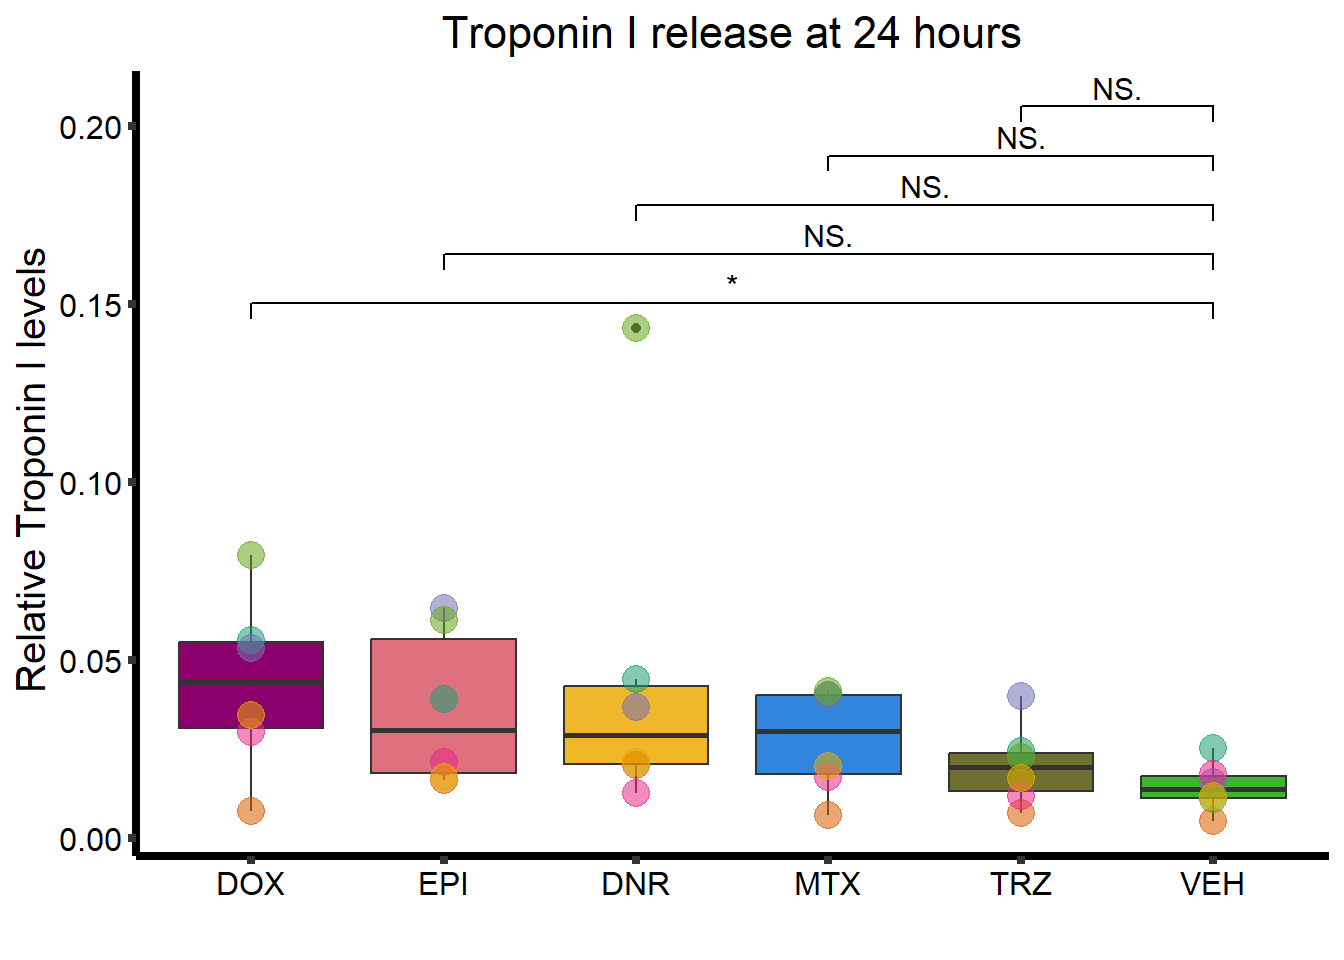
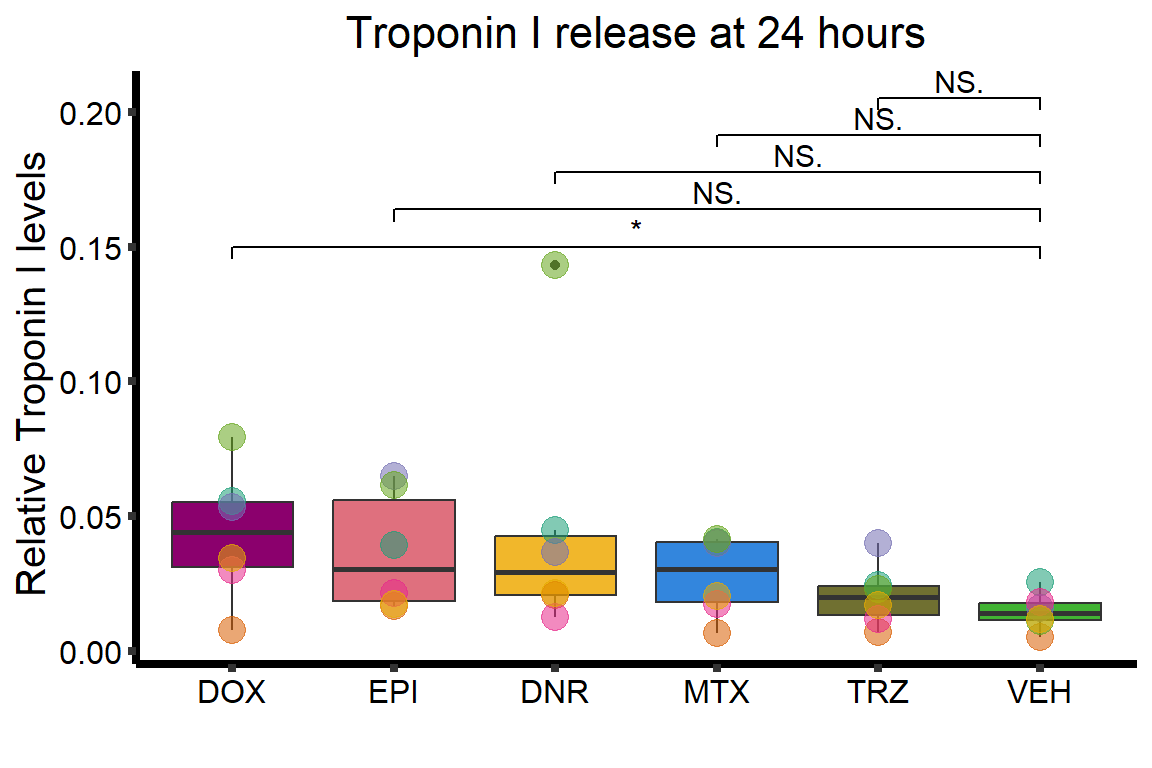
Build site.

diff --git a/docs/Figure2.html b/docs/Figure2.html
@@ -11,7 +11,7 @@
 
 <meta name="author" content="ERM" />
 
-<meta name="date" content="2023-07-06" />
+<meta name="date" content="2023-07-07" />
 
 <title>Figure2</title>
 
@@ -361,7 +361,7 @@ div.tocify {
 
 <h1 class="title toc-ignore">Figure2</h1>
 <h4 class="author">ERM</h4>
-<h4 class="date">2023-07-06</h4>
+<h4 class="date">2023-07-07</h4>
 
 </div>
 
@@ -390,7 +390,7 @@ class="glyphicon glyphicon-ok text-success" aria-hidden="true"></span>
 <div class="tab-content">
 <div id="summary" class="tab-pane fade in active">
 <p>
-<strong>Last updated:</strong> 2023-07-06
+<strong>Last updated:</strong> 2023-07-07
 </p>
 <p>
 <strong>Checks:</strong> <span
@@ -521,15 +521,15 @@ project makes it easier to run your code on other machines.</p>
 <div class="panel panel-default">
 <div class="panel-heading">
 <p class="panel-title">
-<a data-toggle="collapse" data-parent="#workflowr-checks" href="#strongRepositoryversionstrongahrefhttpsgithubcomreneeisnowhereCardiotoxicitytreeb94a1e03c71cb37e5ccf788c8ba1204f61031e2ctargetblankb94a1e0a">
+<a data-toggle="collapse" data-parent="#workflowr-checks" href="#strongRepositoryversionstrongahrefhttpsgithubcomreneeisnowhereCardiotoxicitytreee5cbe6d0409568d439752ee0d739fa9147dddbaatargetblanke5cbe6da">
 <span class="glyphicon glyphicon-ok text-success"
 aria-hidden="true"></span> <strong>Repository version:</strong>
-<a href="https://github.com/reneeisnowhere/Cardiotoxicity/tree/b94a1e03c71cb37e5ccf788c8ba1204f61031e2c" target="_blank">b94a1e0</a>
+<a href="https://github.com/reneeisnowhere/Cardiotoxicity/tree/e5cbe6d0409568d439752ee0d739fa9147dddbaa" target="_blank">e5cbe6d</a>
 </a>
 </p>
 </div>
 <div
[2 lines of base64/hex data omitted]
 class="panel-collapse collapse">
 <div class="panel-body">
 <p>
@@ -539,7 +539,7 @@ reproducibility.
 </p>
 <p>
 The results in this page were generated with repository version
-<a href="https://github.com/reneeisnowhere/Cardiotoxicity/tree/b94a1e03c71cb37e5ccf788c8ba1204f61031e2c" target="_blank">b94a1e0</a>.
+<a href="https://github.com/reneeisnowhere/Cardiotoxicity/tree/e5cbe6d0409568d439752ee0d739fa9147dddbaa" target="_blank">e5cbe6d</a>.
 See the <em>Past versions</em> tab to see a history of the changes made
 to the R Markdown and HTML files.
 </p>
@@ -611,6 +611,8 @@ Ignored files:
     Ignored:    data/avgLD50.RDS
     Ignored:    data/avg_LD50.RDS
     Ignored:    data/backGL.txt
+    Ignored:    data/calcium_data.RDS
+    Ignored:    data/clamp_summary.RDS
     Ignored:    data/cormotif_3hk1-8.RDS
     Ignored:    data/cormotif_initalK5.RDS
     Ignored:    data/cormotif_initialK5.RDS
@@ -714,6 +716,7 @@ Untracked files:
     Untracked:  output/DNRvenn.RDS
     Untracked:  output/DOXvenn.RDS
     Untracked:  output/EPIvenn.RDS
+    Untracked:  output/Figures/
     Untracked:  output/MTXvenn.RDS
     Untracked:  output/Volcanoplot_10
     Untracked:  output/Volcanoplot_10.RDS
@@ -733,6 +736,10 @@ Unstaged changes:
     Modified:   Cardiotoxicity.Rproj
     Modified:   analysis/DRC_analysis.Rmd
     Modified:   analysis/Figure1.Rmd
+    Modified:   analysis/Figure3.Rmd
+    Modified:   analysis/Figure7.Rmd
+    Modified:   analysis/Figure8.Rmd
+    Modified:   analysis/Figure9.Rmd
     Modified:   analysis/GOI_plots.Rmd
     Modified:   analysis/Supplementary_figures.Rmd
     Modified:   analysis/other_analysis.Rmd
@@ -794,6 +801,40 @@ Message
 </tr>
 </thead>
 <tbody>
+<tr>
+<td>
+Rmd
+</td>
+<td>
+<a href="https://github.com/reneeisnowhere/Cardiotoxicity/blob/e5cbe6d0409568d439752ee0d739fa9147dddbaa/analysis/Figure2.Rmd" target="_blank">e5cbe6d</a>
+</td>
+<td>
+reneeisnowhere
+</td>
+<td>
+2023-07-07
+</td>
+<td>
+update exports
+</td>
+</tr>
+<tr>
+<td>
+html
+</td>
+<td>
+<a href="https://rawcdn.githack.com/reneeisnowhere/Cardiotoxicity/32ba3b45fdaf4ca70171d5d57369a552aa26a9c1/docs/Figure2.html" target="_blank">32ba3b4</a>
+</td>
+<td>
+reneeisnowhere
+</td>
+<td>
+2023-07-06
+</td>
+<td>
+Build site.
+</td>
+</tr>
 <tr>
 <td>
 Rmd
@@ -953,8 +994,11 @@ RNAnormlist %&gt;%
         axis.line = element_line(linewidth = 1.5),
         axis.text = element_text(size = 12, color = &quot;black&quot;, angle = 0),
         strip.text.x = element_text(size = 15, color = &quot;black&quot;, face = &quot;bold&quot;))</code></pre>
-<p><img src="figure/Figure2.Rmd/LDH,data%20load-1.png" width="672" style="display: block; margin: auto;" />
-## C. Troponin I release</p>
+<p><img src="figure/Figure2.Rmd/LDH,data%20load-1.png" width="576" style="display: block; margin: auto;" /></p>
+<pre class="r"><code>ggsave(&quot;output/Figures/LDH24h.eps&quot;,width = 4, height =6, units = &quot;in&quot;)</code></pre>
+</div>
+<div id="c.-troponin-i-release" class="section level2">
+<h2>C. Troponin I release</h2>
 <pre class="r"><code>RNAnormlist %&gt;% 
   mutate(Drug = factor(Drug, levels = c(  &quot;DOX&quot;,
                                           &quot;EPI&quot;,
@@ -990,7 +1034,8 @@ RNAnormlist %&gt;%
         axis.line = element_line(linewidth = 1.5),
         axis.text = element_text(size = 12, color = &quot;black&quot;, angle = 0),
         strip.text.x = element_text(size = 15, color = &quot;black&quot;, face = &quot;bold&quot;))</code></pre>
-<p><img src="figure/Figure2.Rmd/troponin_24-1.png" width="672" style="display: block; margin: auto;" /></p>
+<p><img src="figure/Figure2.Rmd/troponin_24-1.png" width="576" style="display: block; margin: auto;" /></p>
+<pre class="r"><code>ggsave(&quot;output/Figures/LDH24h.eps&quot;,width = 4, height =6, units = &quot;in&quot;)</code></pre>
 <br>
 <p>
 <button type="button" class="btn btn-default btn-workflowr btn-workflowr-sessioninfo" data-toggle="collapse" data-target="#workflowr-sessioninfo" style="display: block;">
@@ -1027,24 +1072,24 @@ other attached packages:
 [22] workflowr_1.7.0    
 
 loaded via a namespace (and not attached):
- [1] httr_1.4.6       sass_0.4.6       jsonlite_1.8.5   splines_4.2.2   
- [5] gtools_3.9.4     bslib_0.5.0      getPass_0.2-2    highr_0.10      
- [9] yaml_2.3.7       pillar_1.9.0     backports_1.4.1  lattice_0.21-8  
-[13] glue_1.6.2       digest_0.6.31    promises_1.2.0.1 colorspace_2.1-0
-[17] sandwich_3.0-2   htmltools_0.5.5  httpuv_1.6.11    Matrix_1.5-4.1  
-[21] pkgconfig_2.0.3  mvtnorm_1.2-2    scales_1.2.1     processx_3.8.1  
-[25] whisker_0.4.1    later_1.3.1      tzdb_0.4.0       timechange_0.2.0
-[29] git2r_0.32.0     farver_2.1.1     generics_0.1.3   TH.data_1.1-2   
-[33] cachem_1.0.8     withr_2.5.0      cli_3.6.1        survival_3.5-5  
-[37] magrittr_2.0.3   evaluate_0.21    ps_1.7.5         fs_1.6.2        
-[41] fansi_1.0.4      tools_4.2.2      hms_1.1.3        lifecycle_1.0.3 
-[45] multcomp_1.4-24  munsell_0.5.0    plotrix_3.8-2    callr_3.7.3     
-[49] compiler_4.2.2   jquerylib_0.1.4  rlang_1.1.1      grid_4.2.2      
-[53] rstudioapi_0.14  labeling_0.4.2   rmarkdown_2.22   gtable_0.3.3    
-[57] codetools_0.2-19 abind_1.4-5      R6_2.5.1         zoo_1.8-12      
-[61] knitr_1.43       fastmap_1.1.1    utf8_1.2.3       rprojroot_2.0.3 
-[65] stringi_1.7.12   Rcpp_1.0.10      vctrs_0.6.3      tidyselect_1.2.0
-[69] xfun_0.39       </code></pre>
+ [1] httr_1.4.6        sass_0.4.6        jsonlite_1.8.5    splines_4.2.2    
+ [5] gtools_3.9.4      bslib_0.5.0       getPass_0.2-2     highr_0.10       
+ [9] yaml_2.3.7        pillar_1.9.0      backports_1.4.1   lattice_0.21-8   
+[13] glue_1.6.2        digest_0.6.31     promises_1.2.0.1  colorspace_2.1-0 
+[17] sandwich_3.0-2    htmltools_0.5.5   httpuv_1.6.11     Matrix_1.5-4.1   
+[21] pkgconfig_2.0.3   mvtnorm_1.2-2     scales_1.2.1      processx_3.8.1   
+[25] whisker_0.4.1     later_1.3.1       tzdb_0.4.0        timechange_0.2.0 
+[29] git2r_0.32.0      farver_2.1.1      generics_0.1.3    TH.data_1.1-2    
+[33] cachem_1.0.8      withr_2.5.0       cli_3.6.1         survival_3.5-5   
+[37] magrittr_2.0.3    evaluate_0.21     ps_1.7.5          fs_1.6.2         
+[41] fansi_1.0.4       textshaping_0.3.6 tools_4.2.2       hms_1.1.3        
+[45] lifecycle_1.0.3   multcomp_1.4-24   munsell_0.5.0     plotrix_3.8-2    
+[49] callr_3.7.3       compiler_4.2.2    jquerylib_0.1.4   systemfonts_1.0.4
+[53] rlang_1.1.1       grid_4.2.2        rstudioapi_0.14   labeling_0.4.2   
+[57] rmarkdown_2.22    gtable_0.3.3      codetools_0.2-19  abind_1.4-5      
+[61] R6_2.5.1          zoo_1.8-12        knitr_1.43        fastmap_1.1.1    
+[65] utf8_1.2.3        rprojroot_2.0.3   ragg_1.2.5        stringi_1.7.12   
+[69] Rcpp_1.0.10       vctrs_0.6.3       tidyselect_1.2.0  xfun_0.39        </code></pre>
 </div>
 </div>
 </div>
